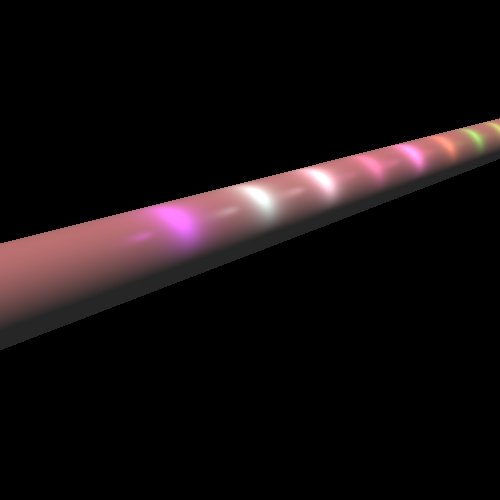
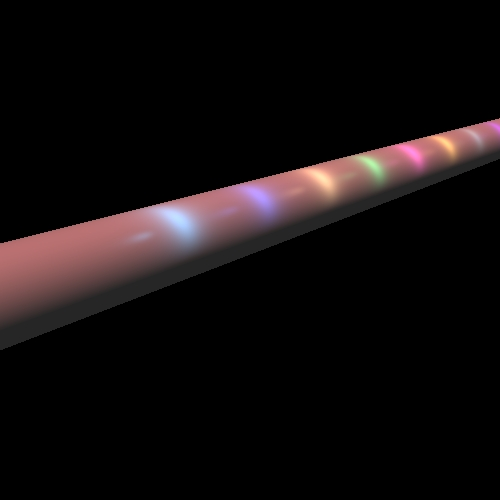
end of part 2 in recitation 7 transparent and reflection

diff --git a/src/renderer/Render.java b/src/renderer/Render.java
@@ -17,11 +17,6 @@ import static primitives.Util.alignZero;
 public class Render {
     private static final int MAX_CALC_COLOR_LEVEL = 10;
     private static final double MIN_CALC_COLOR_K = 0.001;
-    /**
-     * Fixed size for moving the beginning of the beam
-     * at shading rays transparency and reflection
-     */
-    private static final double DELTA = 0.1;
     private ImageWriter _imageWriter;
     private Scene _scene;
 
@@ -47,15 +42,15 @@ public class Render {
      */
     private boolean unshaded(LightSource light, Vector l, Vector n, GeoPoint gp) {
         Vector lightDirection = l.scale(-1); // change direction, from point to lightSource
-        Vector delta = n.scale(n.dotProduct(lightDirection) > 0 ? DELTA : -DELTA);
-        Point3D point = gp._point.add(delta);
-        Ray lightRay = new Ray(point, lightDirection); // reversed lightRay
-
-        List<GeoPoint> intersections =
-                _scene.getGeometries().findIntersections(lightRay, light.getDistance(point));
-        if (intersections != null)
-            System.out.println(intersections.get(0));
-        return intersections == null;
+        Ray lightRay = new Ray(gp._point, lightDirection, n);
+        List<GeoPoint> intersections = //todo check light.getDistance(gp._point) if need -DELTA
+                _scene.getGeometries().findIntersections(lightRay, light.getDistance(gp._point));
+        if (intersections == null)
+            return true;
+        for (GeoPoint geoPoint : intersections)
+            if (geoPoint._geometry.getMaterial().getKT() == 0)
+                return false;
+        return true;
     }
 
     /**
@@ -94,7 +89,6 @@ public class Render {
         double height = _imageWriter.getHeight();
 
         Ray ray;
-        List<GeoPoint> intersectionPoints;
         GeoPoint closestPoint;
         for (int i = 0; i < nY; ++i) {
             for (int j = 0; j < nX; ++j) {
@@ -125,15 +119,28 @@ public class Render {
         }
     }
 
+    /**
+     * return color of this point
+     * calculate all the reflection and refraction rays
+     * start recursive call with MAX_CALC_COLOR_LEVEL and k = 0
+     *
+     * @param geoPoint the point we check for color
+     * @param inRay    the ray the intersect with the geoPoint
+     * @return color of this point
+     */
     private Color calcColor(GeoPoint geoPoint, Ray inRay) {
         return calcColor(geoPoint, inRay, MAX_CALC_COLOR_LEVEL, 1.0)
                 .add(_scene.getAmbientLight().getIntensity());
     }
 
     /**
-     * return color color of this point
+     * return color of this point
+     * calculate all the reflection and refraction rays
      *
-     * @param geoPoint Point3D
+     * @param geoPoint the point we check for color
+     * @param inRay    ray that intersect with the geometry
+     * @param level    the number of recursive ray
+     * @param k        factor of light intensity
      * @return Color of this point
      */
     private Color calcColor(GeoPoint geoPoint, Ray inRay, int level, double k) {
@@ -159,14 +166,14 @@ public class Render {
         if (level == 1) return Color.BLACK;
         double kR = geoPoint._geometry.getMaterial().getKR(), kkr = k * kR;
         if (kkr > MIN_CALC_COLOR_K) {
-            Ray reflectedRay = constructReflectedRay(n, geoPoint._point, inRay);
+            Ray reflectedRay = constructReflectedRay(n, geoPoint, inRay);
             GeoPoint reflectedPoint = findClosestIntersection(reflectedRay);
             if (reflectedPoint != null)
                 color = color.add(calcColor(reflectedPoint, reflectedRay, level - 1, kkr).scale(kR));
         }
         double kT = geoPoint._geometry.getMaterial().getKT(), kkt = k * kT;
         if (kkt > MIN_CALC_COLOR_K) {
-            Ray refractedRay = constructRefractedRay(geoPoint._point, inRay);
+            Ray refractedRay = constructRefractedRay(geoPoint, inRay);
             GeoPoint refractedPoint = findClosestIntersection(refractedRay);
             if (refractedPoint != null)
                 color = color.add(calcColor(refractedPoint, refractedRay, level - 1, kkt).scale(kT));
@@ -175,40 +182,29 @@ public class Render {
     }
 
     /**
-     * return new ray refracted from the surface at the point
-     *
-     * @param point point on the surface of the geometry
-     * @param inRay ray that intersect with the geometry
-     * @return return new ray refracted from the surface at the point
-     */
-    private Ray constructRefractedRay(Point3D point, Ray inRay) {
-        return new Ray(point, inRay.getVector()); // refracted lightRay
-    }
-
-    /**
-     * return the closest point to the head of the reflected ray
-     *
-     * @param reflectedRay the ray that we find closest point on it
-     * @return return the closest point to the head of the reflected ray
-     */
-    private GeoPoint findClosestIntersection(Ray reflectedRay) {
-        List<GeoPoint> intersectionPoints = _scene.getGeometries().findIntersections(reflectedRay);
-        return getClosestPoint(reflectedRay.getPoint(), intersectionPoints);
-    }
-
-    /**
      * return new ray reflected from the surface at the point
      *
-     * @param n     vector normal to the reflected geometry
-     * @param point point on the surface of the geometry
-     * @param inRay ray that intersect with the geometry
+     * @param n        vector normal to the reflected geometry
+     * @param geoPoint point on the surface of the geometry
+     * @param inRay    ray that intersect with the geometry
      * @return return new ray reflected from the surface at the point
      */
-    private Ray constructReflectedRay(Vector n, Point3D point, Ray inRay) {
+    private Ray constructReflectedRay(Vector n, GeoPoint geoPoint, Ray inRay) {
         Vector reflectedVector = inRay.getVector().subtract(n.scale(inRay.getVector().dotProduct(n) * 2)); //r
-        Vector delta = n.scale(n.dotProduct(reflectedVector) > 0 ? DELTA : -DELTA);
-        Point3D movedPoint = point.add(delta);
-        return new Ray(movedPoint, reflectedVector); // reflected lightRay
+        return new Ray(geoPoint._point, reflectedVector, n);
+    }
+
+    /**
+     * return new ray refracted from the surface at the point
+     *
+     * @param geoPoint point on the surface of the geometry
+     * @param inRay    ray that intersect with the geometry
+     * @return return new ray refracted from the surface at the point
+     */
+    private Ray constructRefractedRay(GeoPoint geoPoint, Ray inRay) {
+        // todo check if need DELTA
+        return new Ray(geoPoint._point, inRay.getVector(),
+                geoPoint._geometry.getNormal(geoPoint._point));// refracted lightRay
     }
 
     /**
@@ -242,9 +238,21 @@ public class Render {
     private Color calcSpecular(double kS, Vector l, Vector n, Vector v, int nShininess, Color lightIntensity) {
         Vector r = l.subtract(n.scale(l.dotProduct(n) * 2));
         double minusVDotR = alignZero(r.dotProduct(v.scale(-1)));
-        if (minusVDotR <= 0)
-            return Color.BLACK;
+        if (minusVDotR <= 0) return Color.BLACK;
         return lightIntensity.scale(Math.pow(minusVDotR, nShininess) * kS);
+    }
+
+    /**
+     * return the closest point to the head of the reflected ray
+     *
+     * @param ray the ray that we find closest point on it
+     * @return return the closest point to the head of the reflected ray
+     */
+    private GeoPoint findClosestIntersection(Ray ray) {
+        List<GeoPoint> intersectionPoints = _scene.getGeometries().findIntersections(ray);
+        if (intersectionPoints == null)
+            return null;
+        return getClosestPoint(ray.getPoint(), intersectionPoints);
     }
 
     /**

diff --git a/src/unittests/renderer/ReflectionRefractionTests.java b/src/unittests/renderer/ReflectionRefractionTests.java
@@ -1,0 +1,107 @@
+package renderer;
+
+import elements.AmbientLight;
+import elements.Camera;
+import elements.SpotLight;
+import geometries.Sphere;
+import geometries.Triangle;
+import org.junit.Test;
+import primitives.Color;
+import primitives.Material;
+import primitives.Point3D;
+import primitives.Vector;
+import scene.Scene;
+
+/**
+ * Tests for reflection and transparency functionality, test for partial shadows
+ * (with transparency)
+ *
+ * @author dzilb
+ */
+public class ReflectionRefractionTests {
+
+    /**
+     * Produce a picture of a sphere lighted by a spot light
+     */
+    @Test
+    public void twoSpheres() {
+        Scene scene = new Scene("Test scene");
+        scene.setCamera(new Camera(new Point3D(0, 0, -1000), new Vector(0, 0, 1), new Vector(0, -1, 0)));
+        scene.setDistance(1000);
+        scene.setBackground(Color.BLACK);
+        scene.setAmbientLight(new AmbientLight(Color.BLACK, 0));
+
+        scene.addGeometries(
+                new Sphere(new Color(java.awt.Color.BLUE), new Material(0.4, 0.3, 100, 0.3, 0), 50,
+                        new Point3D(0, 0, 50)),
+                new Sphere(new Color(java.awt.Color.RED), new Material(0.5, 0.5, 100), 25, new Point3D(0, 0, 50)));
+
+        scene.addLights(new SpotLight(new Color(1000, 600, 0), new Point3D(-100, 100, -500), new Vector(-1, 1, 2), 1,
+                0.0004, 0.0000006));
+
+        ImageWriter imageWriter = new ImageWriter("twoSpheres", 150, 150, 500, 500);
+        Render render = new Render(imageWriter, scene);
+
+        render.renderImage();
+        render.writeToImage();
+    }
+
+    /**
+     * Produce a picture of a sphere lighted by a spot light
+     */
+    @Test
+    public void twoSpheresOnMirrors() {
+        Scene scene = new Scene("Test scene");
+        scene.setCamera(new Camera(new Point3D(0, 0, -10000), new Vector(0, 0, 1), new Vector(0, -1, 0)));
+        scene.setDistance(10000);
+        scene.setBackground(Color.BLACK);
+        scene.setAmbientLight(new AmbientLight(new Color(255, 255, 255), 0.1));
+
+        scene.addGeometries(
+                new Sphere(new Color(0, 0, 100), new Material(0.25, 0.25, 20, 0.5, 0), 400, new Point3D(-950, 900, 1000)),
+                new Sphere(new Color(100, 20, 20), new Material(0.25, 0.25, 20), 200, new Point3D(-950, 900, 1000)),
+                new Triangle(new Color(20, 20, 20), new Material(0, 0, 0, 0, 1), new Point3D(1500, 1500, 1500),
+                        new Point3D(-1500, -1500, 1500), new Point3D(670, -670, -3000)),
+                new Triangle(new Color(20, 20, 20), new Material(0, 0, 0, 0, 0.5), new Point3D(1500, 1500, 1500),
+                        new Point3D(-1500, -1500, 1500), new Point3D(-1500, 1500, 2000)));
+
+        scene.addLights(new SpotLight(new Color(1020, 400, 400), new Point3D(-750, 750, 150),
+                new Vector(-1, 1, 4), 1, 0.00001, 0.000005));
+
+        ImageWriter imageWriter = new ImageWriter("twoSpheresMirrored", 2500, 2500, 500, 500);
+        Render render = new Render(imageWriter, scene);
+
+        render.renderImage();
+        render.writeToImage();
+    }
+
+    /**
+     * Produce a picture of a two triangles lighted by a spot light with a partially transparent Sphere
+     * producing partial shadow
+     */
+    @Test
+    public void trianglesTransparentSphere() {
+        Scene scene = new Scene("Test scene");
+        scene.setCamera(new Camera(new Point3D(0, 0, -1000), new Vector(0, 0, 1), new Vector(0, -1, 0)));
+        scene.setDistance(1000);
+        scene.setBackground(Color.BLACK);
+        scene.setAmbientLight(new AmbientLight(new Color(java.awt.Color.WHITE), 0.15));
+
+        scene.addGeometries( //
+                new Triangle(Color.BLACK, new Material(0.5, 0.5, 60), //
+                        new Point3D(-150, 150, 115), new Point3D(150, 150, 135), new Point3D(75, -75, 150)), //
+                new Triangle(Color.BLACK, new Material(0.5, 0.5, 60), //
+                        new Point3D(-150, 150, 115), new Point3D(-70, -70, 140), new Point3D(75, -75, 150)), //
+                new Sphere(new Color(java.awt.Color.BLUE), new Material(0.2, 0.2, 30, 0.6, 0), // )
+                        30, new Point3D(60, -50, 50)));
+
+        scene.addLights(new SpotLight(new Color(700, 400, 400), //
+                new Point3D(60, -50, 0), new Vector(0, 0, 1), 1, 4E-5, 2E-7));
+
+        ImageWriter imageWriter = new ImageWriter("shadow with transparency", 200, 200, 600, 600);
+        Render render = new Render(imageWriter, scene);
+
+        render.renderImage();
+        render.writeToImage();
+    }
+}

diff --git a/src/primitives/Ray.java b/src/primitives/Ray.java
@@ -4,8 +4,26 @@ package primitives;
  * class that implements ray
  */
 public class Ray {
+    /**
+     * Fixed size for moving the beginning of the beam
+     * at shading rays transparency and reflection
+     */
+    private static final double DELTA = 0.1;
     private Point3D _point;
     private Vector _vector;
+
+    /**
+     * constructor of Ray that his head moved DELTA from the surface in vector direction
+     *
+     * @param head      on the surface of the geometry
+     * @param direction the vector that we move his head by DELTA
+     * @param normal    vector normal to the reflected geometry
+     */
+    public Ray(Point3D head, Vector direction, Vector normal) {
+        // if normal.dotProduct(direction) == 0 so the angle is 90 degree and the ray continue straight
+        _point = head.add(normal.scale(normal.dotProduct(direction) > 0 ? DELTA : -DELTA));
+        _vector = direction.normalized();
+    }
 
     /**
      * constructor of Ray
